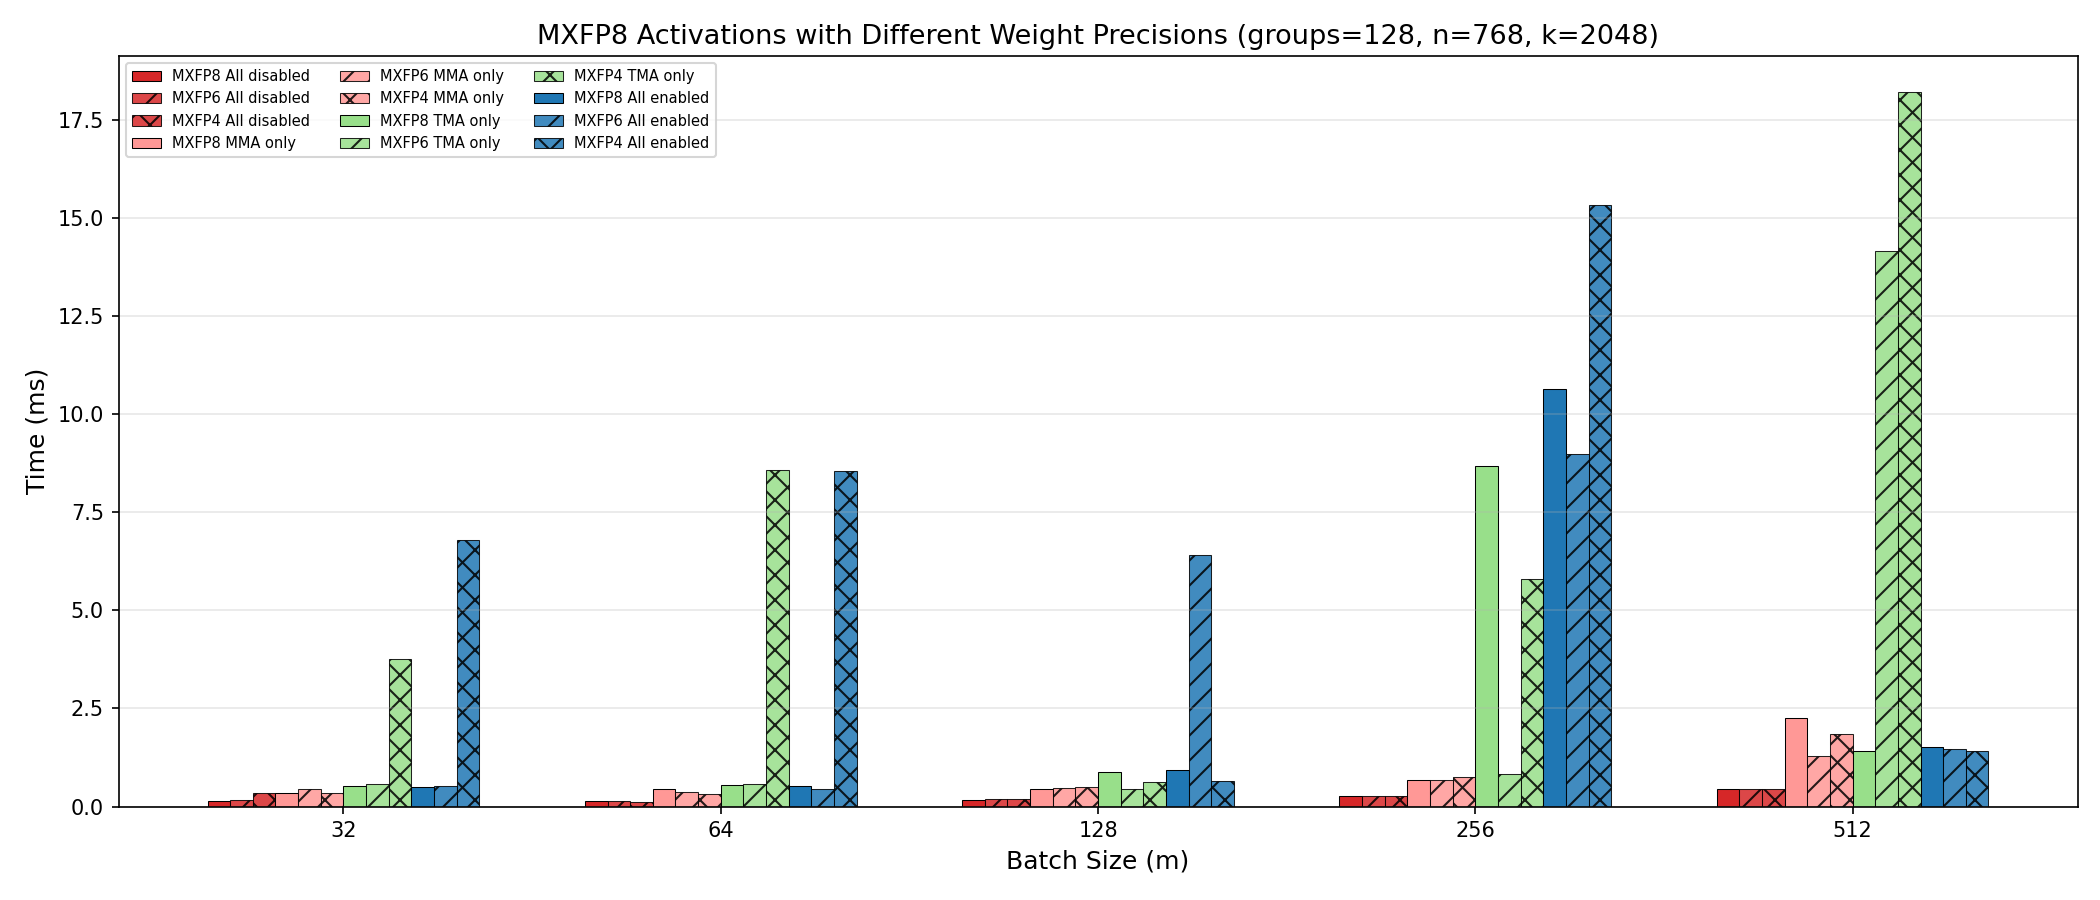
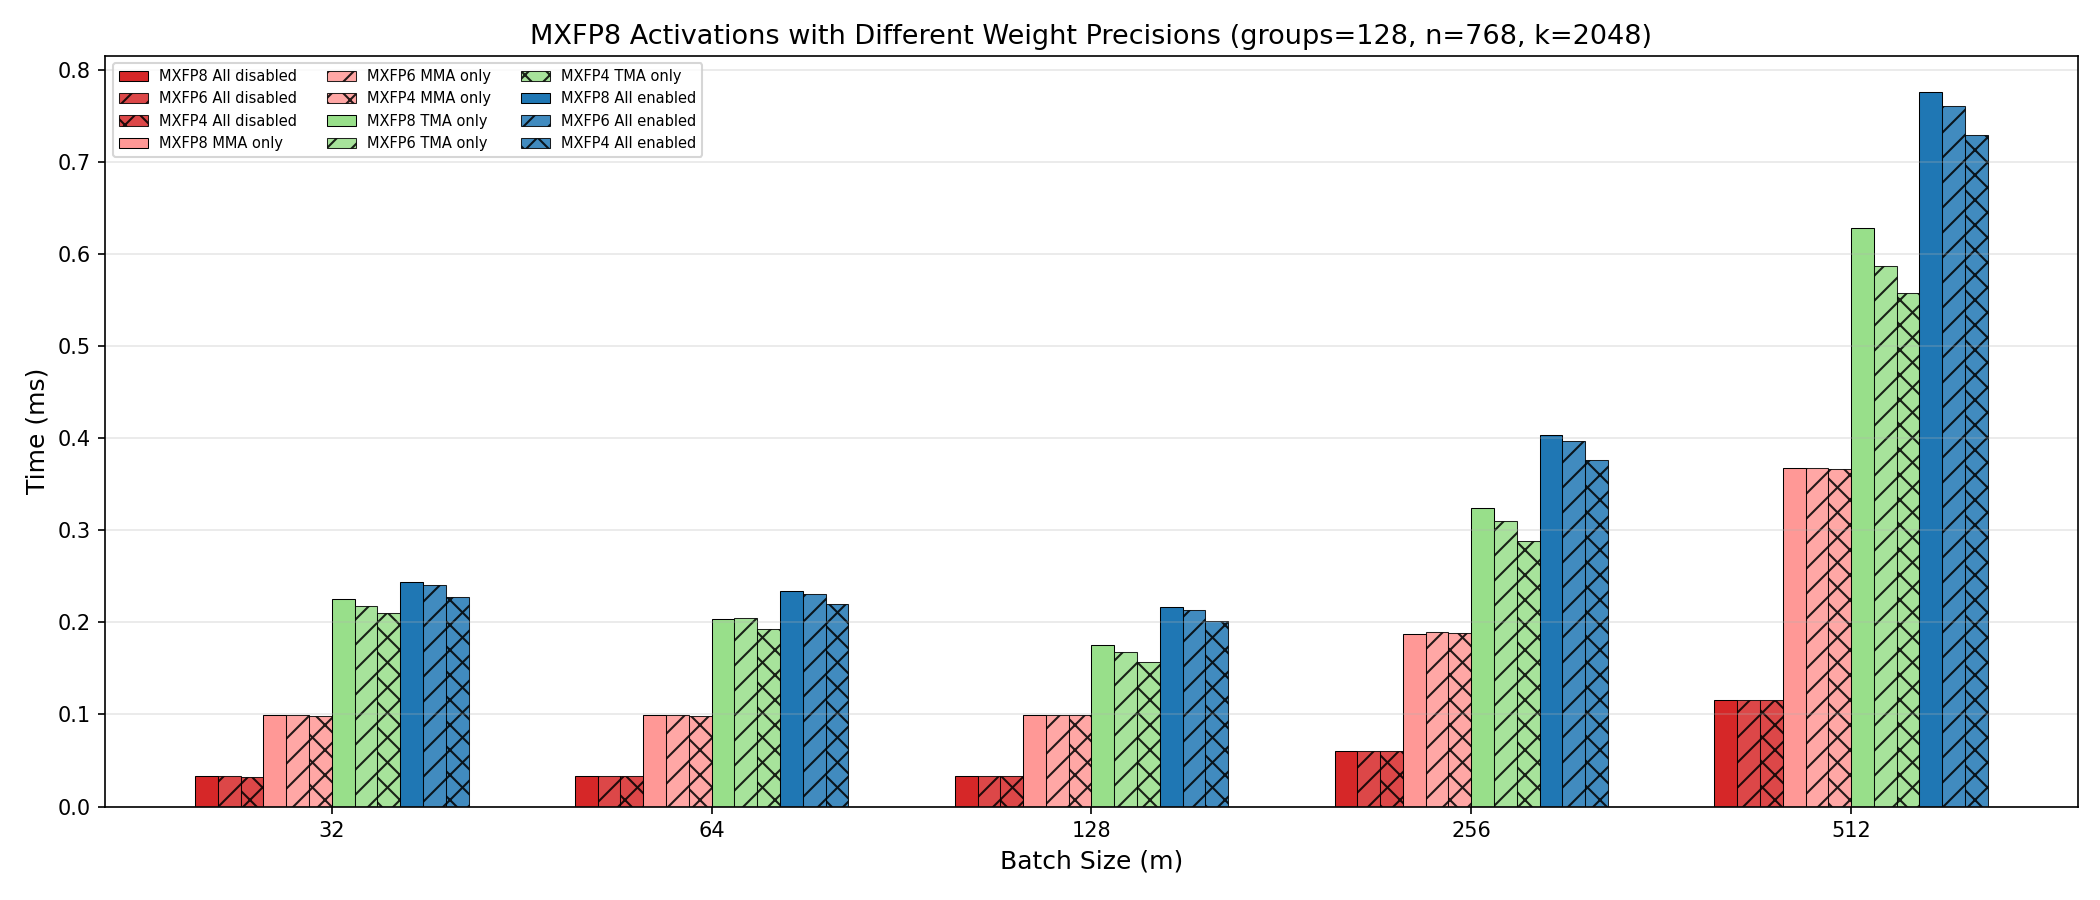
mxf8f6f4 exp on 6000 pro

diff --git a/exp/d_disable/test_mx.py b/exp/d_disable/test_mx.py
@@ -80,7 +80,7 @@ from multiprocessing import Pool, cpu_count
 from dataclasses import dataclass
 
 # Constants
-CUTLASS_ROOT = Path("/home/huanchen/cutlass")
+CUTLASS_ROOT = Path("/workspace/cutlass")
 BUILD_DIR = CUTLASS_ROOT / "build"
 TEMP_BUILD_ROOT = CUTLASS_ROOT / "build_temp"
 LOG_FILE = Path(__file__).parent / "results_mx.log"
